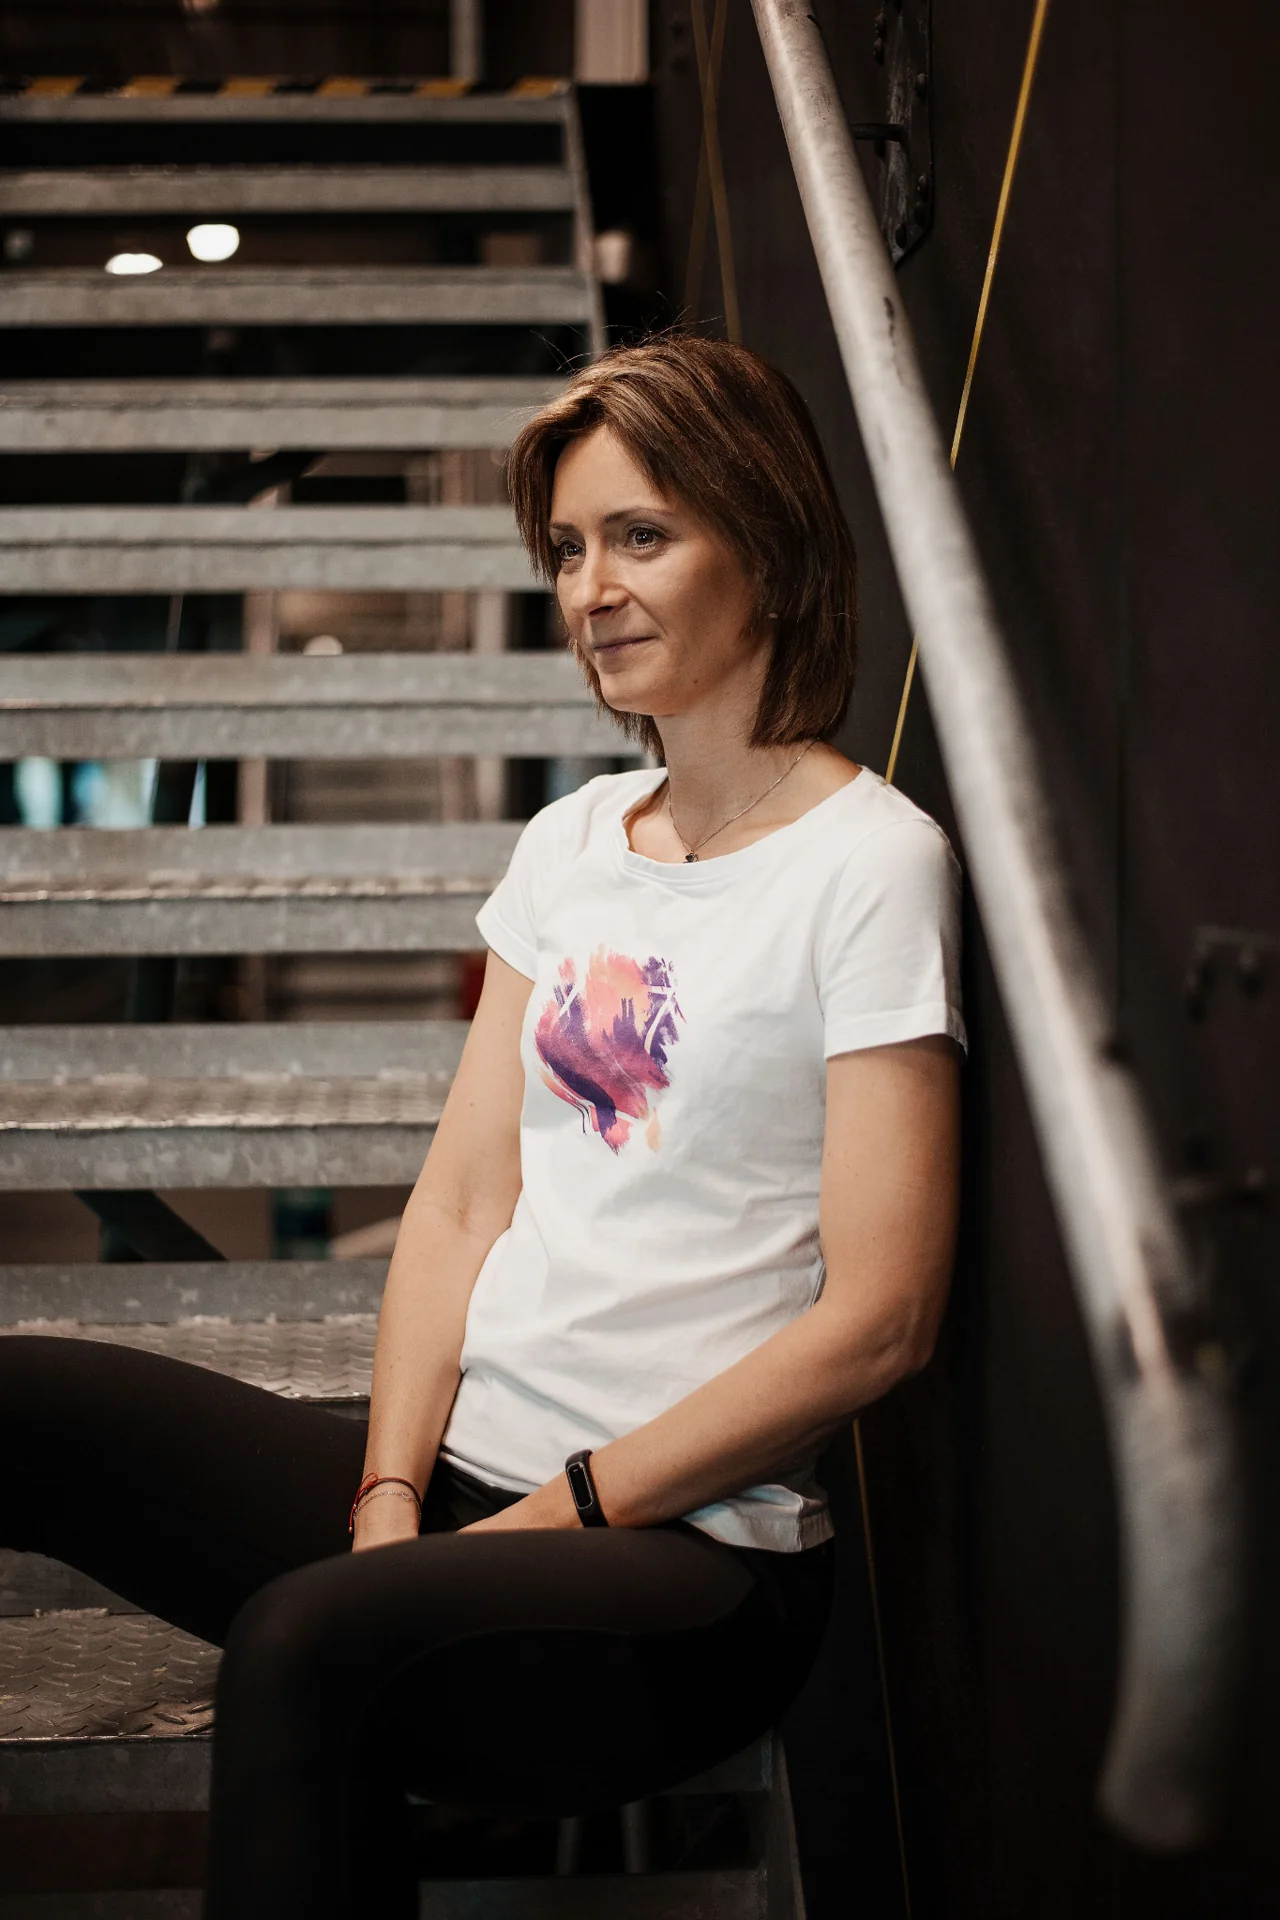
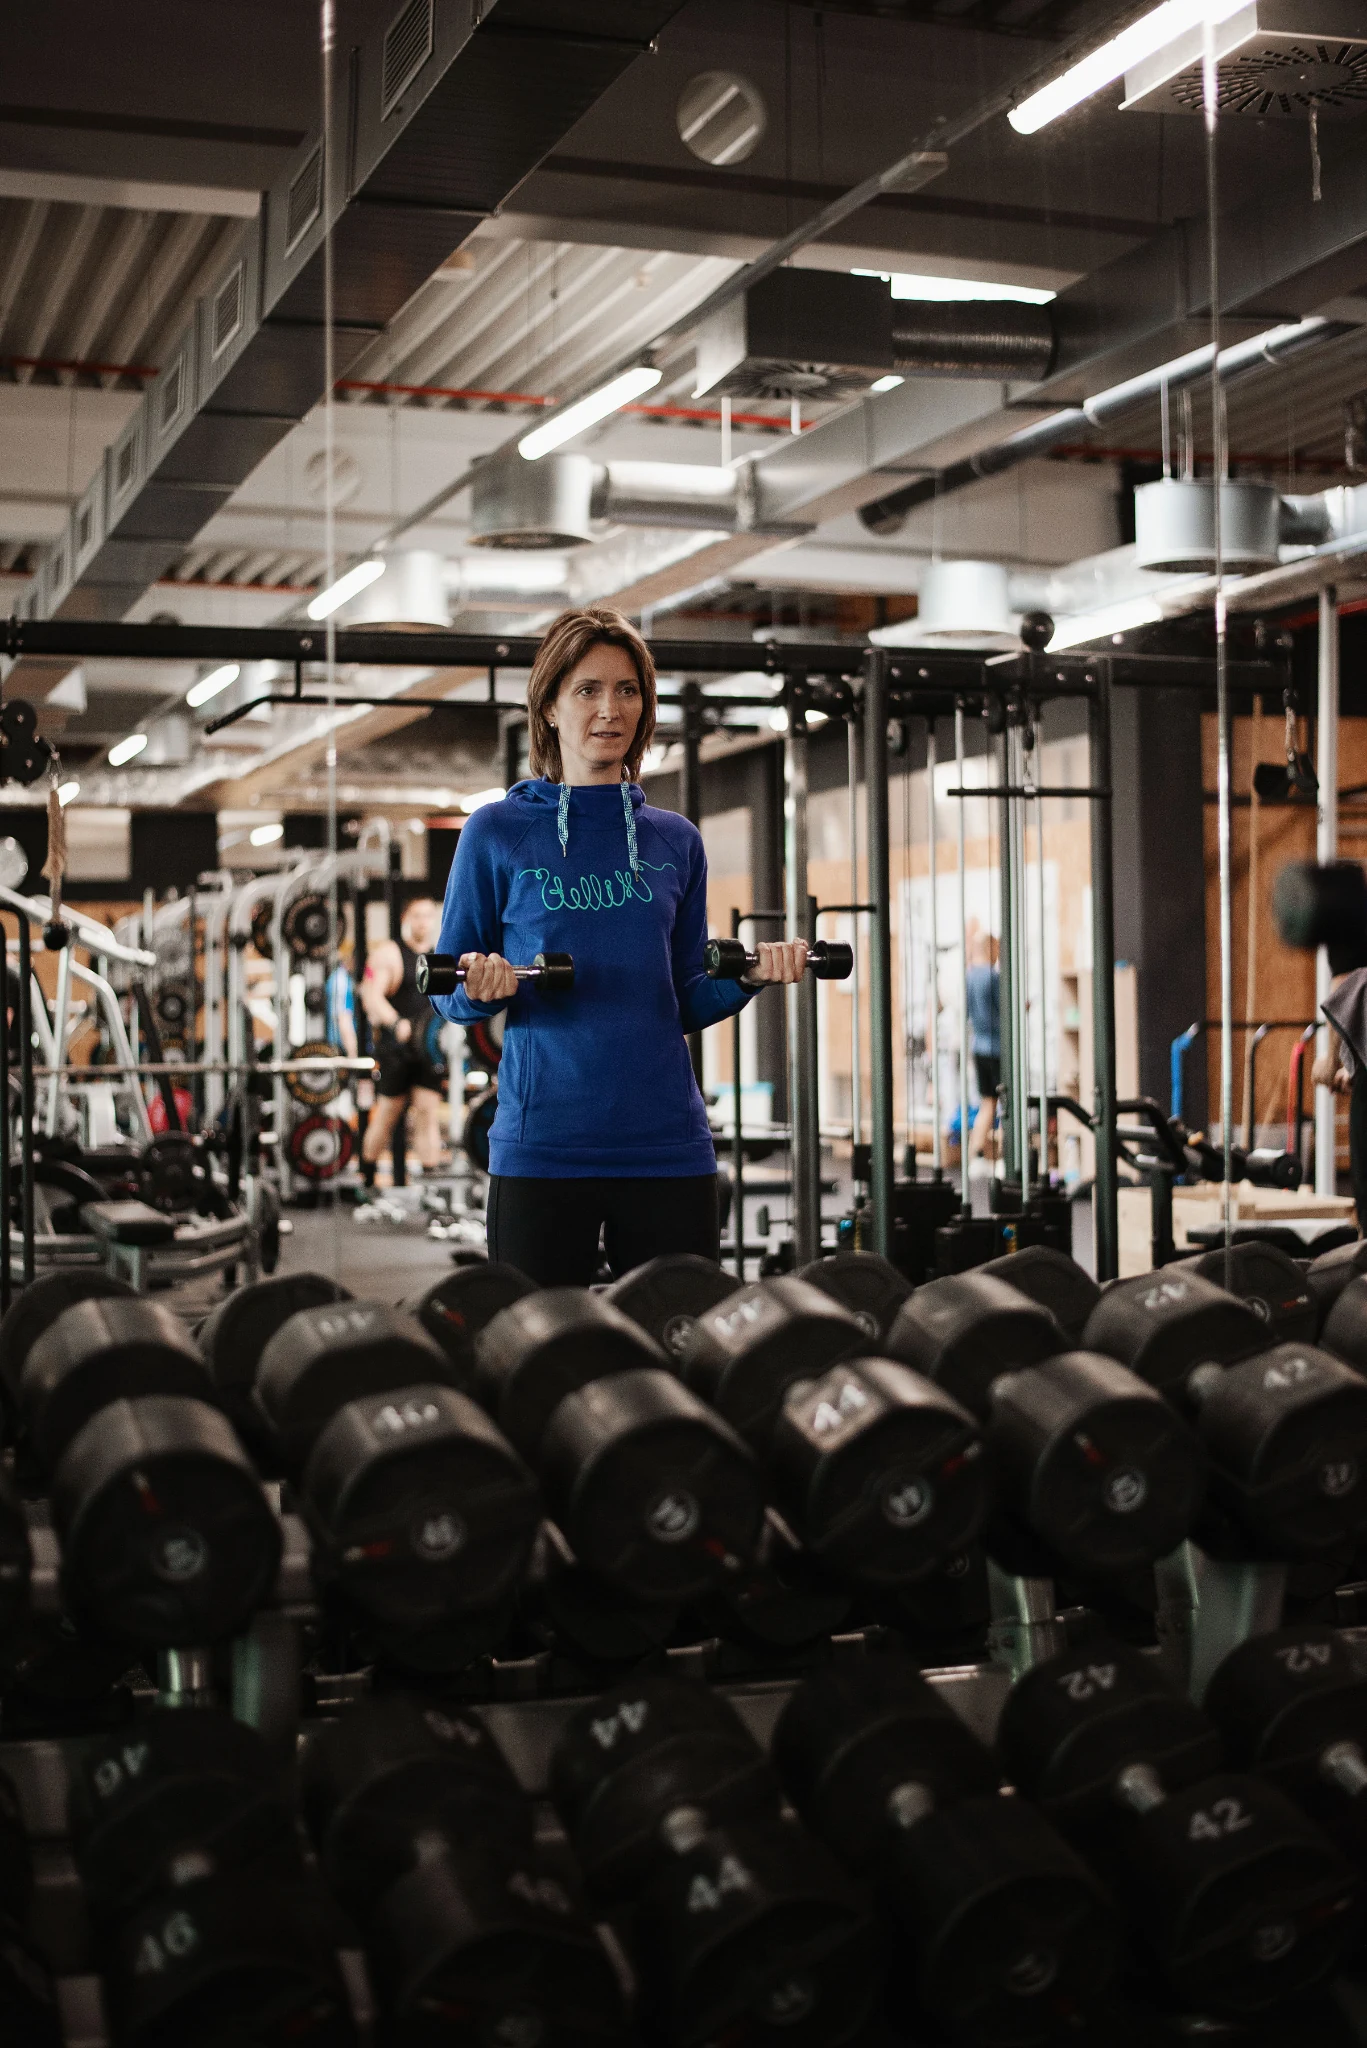
zmeny galerie

diff --git a/assets/css/style.css b/assets/css/style.css
@@ -1,1 +1,1 @@
-@import url('https://fonts.googleapis.com/css2?family=DM+Sans:wght@400;500;600;700&family=Manrope:wght@400;500;600;700;800&display=swap');:root{--ink:#101512;--forest:#163f34;--sage:#dce8df;--cream:#f4f0e8;--lime:#d8f65a;--white:#fff}*{box-sizing:border-box}html{scroll-behavior:smooth}body{margin:0;font-family:'DM Sans',sans-serif;color:var(--ink);background:#fff}.navbar{background:rgba(16,21,18,.9);backdrop-filter:blur(14px);padding:14px 0}.navbar-brand{font:800 26px Manrope}.navbar-brand span,.lime{color:var(--lime)}.nav-link{color:#fff!important;margin-left:14px}.btn-nav{border:1px solid #ffffff55;border-radius:99px;padding-left:18px!important;padding-right:18px!important}.hero{background:var(--ink);color:white;overflow:hidden}.hero h1{font:700 clamp(3.2rem,7vw,6.7rem)/.95 Manrope;margin:18px 0 28px;letter-spacing:-.055em}.hero h1 em{font-style:normal;color:var(--lime)}.hero-lead{font-size:1.22rem;max-width:600px;color:#dce3de;margin-bottom:32px}.kicker,.eyebrow{font-size:.77rem;font-weight:700;letter-spacing:.15em;color:#356f5e;margin-bottom:16px}.hero .kicker{color:var(--lime)}.hero-photo{padding-top:95px}.hero-photo img{width:100%;height:auto;max-height:82vh;object-fit:contain;display:block}.btn-main,.btn-ghost{padding:15px 24px;border-radius:999px;text-decoration:none;font-weight:700}.btn-main{background:var(--lime);color:var(--ink)}.btn-ghost{border:1px solid #ffffff55;color:white}.quote{background:var(--lime);padding:55px 0}.quote p{font:500 clamp(2rem,4vw,4rem)/1.08 Manrope;margin:0}.section{padding:110px 0}.cream{background:var(--cream)}.portrait img,.contact-photo{width:100%;height:auto;display:block}.portrait{padding:12px;background:#fff}.section h2,.gallery-sec h2,.contact h2{font:700 clamp(2.5rem,5vw,4.7rem)/1 Manrope;letter-spacing:-.045em;margin-bottom:28px}.lead{font-size:1.25rem}.facts{display:grid;grid-template-columns:repeat(3,1fr);gap:12px;margin:35px 0}.facts div{border-top:1px solid #bbb;padding-top:14px}.facts b,.facts span{display:block}.facts b{font:700 1.05rem Manrope}.facts span{font-size:.86rem;color:#606762}details{border-top:1px solid #aaa;padding:18px 0}summary{font-weight:700;cursor:pointer}.courses{padding-top:16px;color:#575e59;line-height:1.7}.ink{background:var(--ink);color:white}.services{display:grid;grid-template-columns:repeat(3,1fr);border-top:1px solid #ffffff28}.services article{padding:32px 26px;border-right:1px solid #ffffff28;border-bottom:1px solid #ffffff28}.services span{color:var(--lime);font-weight:700}.services h3{font:700 1.35rem Manrope;margin:32px 0 12px}.services p{color:#bdc5bf}.photo-band{background:#111;text-align:center;padding:0}.photo-band img{display:block;width:100%;height:auto;max-height:85vh;object-fit:contain}.steps{display:grid;grid-template-columns:repeat(4,1fr);gap:30px;margin-top:55px}.steps b{font-size:2rem;color:#37806b}.steps h3{font:700 1.2rem Manrope}.sage{background:var(--sage)}.plan-card{height:100%;padding:42px;background:white}.plan-card.accent{background:var(--forest);color:white}.plan-card h3{font:700 2rem Manrope}.plan-card li{margin:9px 0}.plan-card a{color:var(--lime);font-weight:700}.pricing>div{display:flex;justify-content:space-between;gap:20px;padding:17px 0;border-bottom:1px solid #bbb}.pricing b{white-space:nowrap}.tiny{font-size:.82rem;color:#707670;margin-top:18px}.gallery-sec{background:#0b0e0c;color:white;padding:110px 0}.muted{color:#aeb7b1}.gallery{columns:3 300px;column-gap:16px;margin-top:38px}.gallery figure{break-inside:avoid;margin:0 0 16px;background:#151a17;padding:7px}.gallery img{width:100%;height:auto;display:block}.contact{background:var(--forest);color:white}.contacts{display:flex;flex-direction:column;gap:9px;margin:30px 0}.contacts a,.contacts span{font:600 clamp(1.25rem,2.5vw,2rem) Manrope;color:white;text-decoration:none}.locations{display:flex;gap:45px;margin-top:35px}.locations b,.locations span{display:block}.locations span{color:#bdc9c2}footer{background:#0a0d0b;color:#89948e;padding:26px 0;font-size:.85rem}@media(max-width:991px){.hero-photo{padding-top:90px}.hero .min-vh-100{min-height:auto!important;padding-bottom:70px}.facts,.services,.steps{grid-template-columns:1fr 1fr}.section,.gallery-sec{padding:80px 0}}@media(max-width:575px){.facts,.services,.steps{grid-template-columns:1fr}.locations{flex-direction:column;gap:18px}.pricing>div{flex-direction:column;gap:5px}.hero h1{font-size:3.2rem}.gallery{columns:1}.section,.gallery-sec{padding:65px 0}}
+@import url('https://fonts.googleapis.com/css2?family=DM+Sans:wght@400;500;600;700&family=Manrope:wght@400;500;600;700;800&display=swap');:root{--ink:#101512;--forest:#163f34;--sage:#dce8df;--cream:#f4f0e8;--lime:#d8f65a;--white:#fff}*{box-sizing:border-box}html{scroll-behavior:smooth}body{margin:0;font-family:'DM Sans',sans-serif;color:var(--ink);background:#fff}.navbar{background:rgba(16,21,18,.9);backdrop-filter:blur(14px);padding:14px 0}.navbar-brand{font:800 26px Manrope}.navbar-brand span,.lime{color:var(--lime)}.nav-link{color:#fff!important;margin-left:14px}.btn-nav{border:1px solid #ffffff55;border-radius:99px;padding-left:18px!important;padding-right:18px!important}.hero{background:var(--ink);color:white;overflow:hidden;padding-top:78px}.hero .min-vh-100{min-height:calc(100vh - 78px)!important}.hero h1{font:700 clamp(3.2rem,7vw,6.7rem)/.95 Manrope;margin:18px 0 28px;letter-spacing:-.055em}.hero h1 em{font-style:normal;color:var(--lime)}.hero-lead{font-size:1.22rem;max-width:600px;color:#dce3de;margin-bottom:32px}.kicker,.eyebrow{font-size:.77rem;font-weight:700;letter-spacing:.15em;color:#356f5e;margin-bottom:16px}.hero .kicker{color:var(--lime)}.hero-photo{padding-top:95px}.hero-photo img{width:100%;height:auto;max-height:82vh;object-fit:contain;display:block}.btn-main,.btn-ghost{padding:15px 24px;border-radius:999px;text-decoration:none;font-weight:700}.btn-main{background:var(--lime);color:var(--ink)}.btn-ghost{border:1px solid #ffffff55;color:white}.quote{background:var(--lime);padding:55px 0}.quote p{font:500 clamp(2rem,4vw,4rem)/1.08 Manrope;margin:0}.section{padding:110px 0}.cream{background:var(--cream)}.portrait img,.contact-photo{width:100%;height:auto;display:block}.portrait{padding:12px;background:#fff}.section h2,.gallery-sec h2,.contact h2{font:700 clamp(2.5rem,5vw,4.7rem)/1 Manrope;letter-spacing:-.045em;margin-bottom:28px}.lead{font-size:1.25rem}.facts{display:grid;grid-template-columns:repeat(3,1fr);gap:12px;margin:35px 0}.facts div{border-top:1px solid #bbb;padding-top:14px}.facts b,.facts span{display:block}.facts b{font:700 1.05rem Manrope}.facts span{font-size:.86rem;color:#606762}details{border-top:1px solid #aaa;padding:18px 0}summary{font-weight:700;cursor:pointer}.courses{padding-top:16px;color:#575e59;line-height:1.7}.ink{background:var(--ink);color:white}.services{display:grid;grid-template-columns:repeat(3,1fr);border-top:1px solid #ffffff28}.services article{padding:32px 26px;border-right:1px solid #ffffff28;border-bottom:1px solid #ffffff28}.services span{color:var(--lime);font-weight:700}.services h3{font:700 1.35rem Manrope;margin:32px 0 12px}.services p{color:#bdc5bf}.photo-band{background:#111;text-align:center;padding:0}.photo-band img{display:block;width:100%;height:auto;max-height:85vh;object-fit:contain}.steps{display:grid;grid-template-columns:repeat(4,1fr);gap:30px;margin-top:55px}.steps b{font-size:2rem;color:#37806b}.steps h3{font:700 1.2rem Manrope}.sage{background:var(--sage)}.plan-card{height:100%;padding:42px;background:white}.plan-card.accent{background:var(--forest);color:white}.plan-card h3{font:700 2rem Manrope}.plan-card li{margin:9px 0}.plan-card a{color:var(--lime);font-weight:700}.pricing>div{display:flex;justify-content:space-between;gap:20px;padding:17px 0;border-bottom:1px solid #bbb}.pricing b{white-space:nowrap}.tiny{font-size:.82rem;color:#707670;margin-top:18px}.gallery-sec{background:#0b0e0c;color:white;padding:110px 0}.muted{color:#aeb7b1}.gallery{columns:3 300px;column-gap:16px;margin-top:38px}.gallery figure{break-inside:avoid;margin:0 0 16px;background:#151a17;padding:7px}.gallery img{width:100%;height:auto;display:block}.contact{background:var(--forest);color:white}.contacts{display:flex;flex-direction:column;gap:9px;margin:30px 0}.contacts a,.contacts span{font:600 clamp(1.25rem,2.5vw,2rem) Manrope;color:white;text-decoration:none}.locations{display:flex;gap:45px;margin-top:35px}.locations b,.locations span{display:block}.locations span{color:#bdc9c2}footer{background:#0a0d0b;color:#89948e;padding:26px 0;font-size:.85rem}@media(max-height:750px) and (min-width:992px){.hero h1{font-size:clamp(3rem,6vw,5.2rem);margin:10px 0 20px}.hero-lead{margin-bottom:20px}.hero-photo{padding-top:20px}.hero-photo img{max-height:calc(100vh - 120px)}}@media(max-width:991px){.hero{padding-top:74px}.hero-photo{padding-top:20px}.hero .min-vh-100{min-height:auto!important;padding-bottom:70px}.facts,.services,.steps{grid-template-columns:1fr 1fr}.section,.gallery-sec{padding:80px 0}}@media(max-width:575px){.facts,.services,.steps{grid-template-columns:1fr}.locations{flex-direction:column;gap:18px}.pricing>div{flex-direction:column;gap:5px}.hero h1{font-size:3.2rem}.gallery{columns:1}.section,.gallery-sec{padding:65px 0}}

diff --git a/index.html b/index.html
@@ -179,10 +179,9 @@
       <h2>Prostor, pohyb, praxe.</h2>
       <div class = "gallery">
         <figure><img src = "assets/img/photo-01.webp" alt = "Portrétní fotografie ve fitness" loading = "lazy"></figure>
-        <figure><img src = "assets/img/photo-04.webp" alt = "Cvičení ve fitness" loading = "lazy"></figure>
+        
         <figure><img src = "assets/img/photo-06.webp" alt = "Portrétní fotografie ve fitness" loading = "lazy"></figure>
         <figure><img src = "assets/img/photo-12.webp" alt = "Fotografie z fitness prostředí" loading = "lazy"></figure>
-        <figure><img src = "assets/img/photo-18.webp" alt = "Fotografie ve fitness prostředí" loading = "lazy"></figure>
       </div>
     </div>
   </section>
